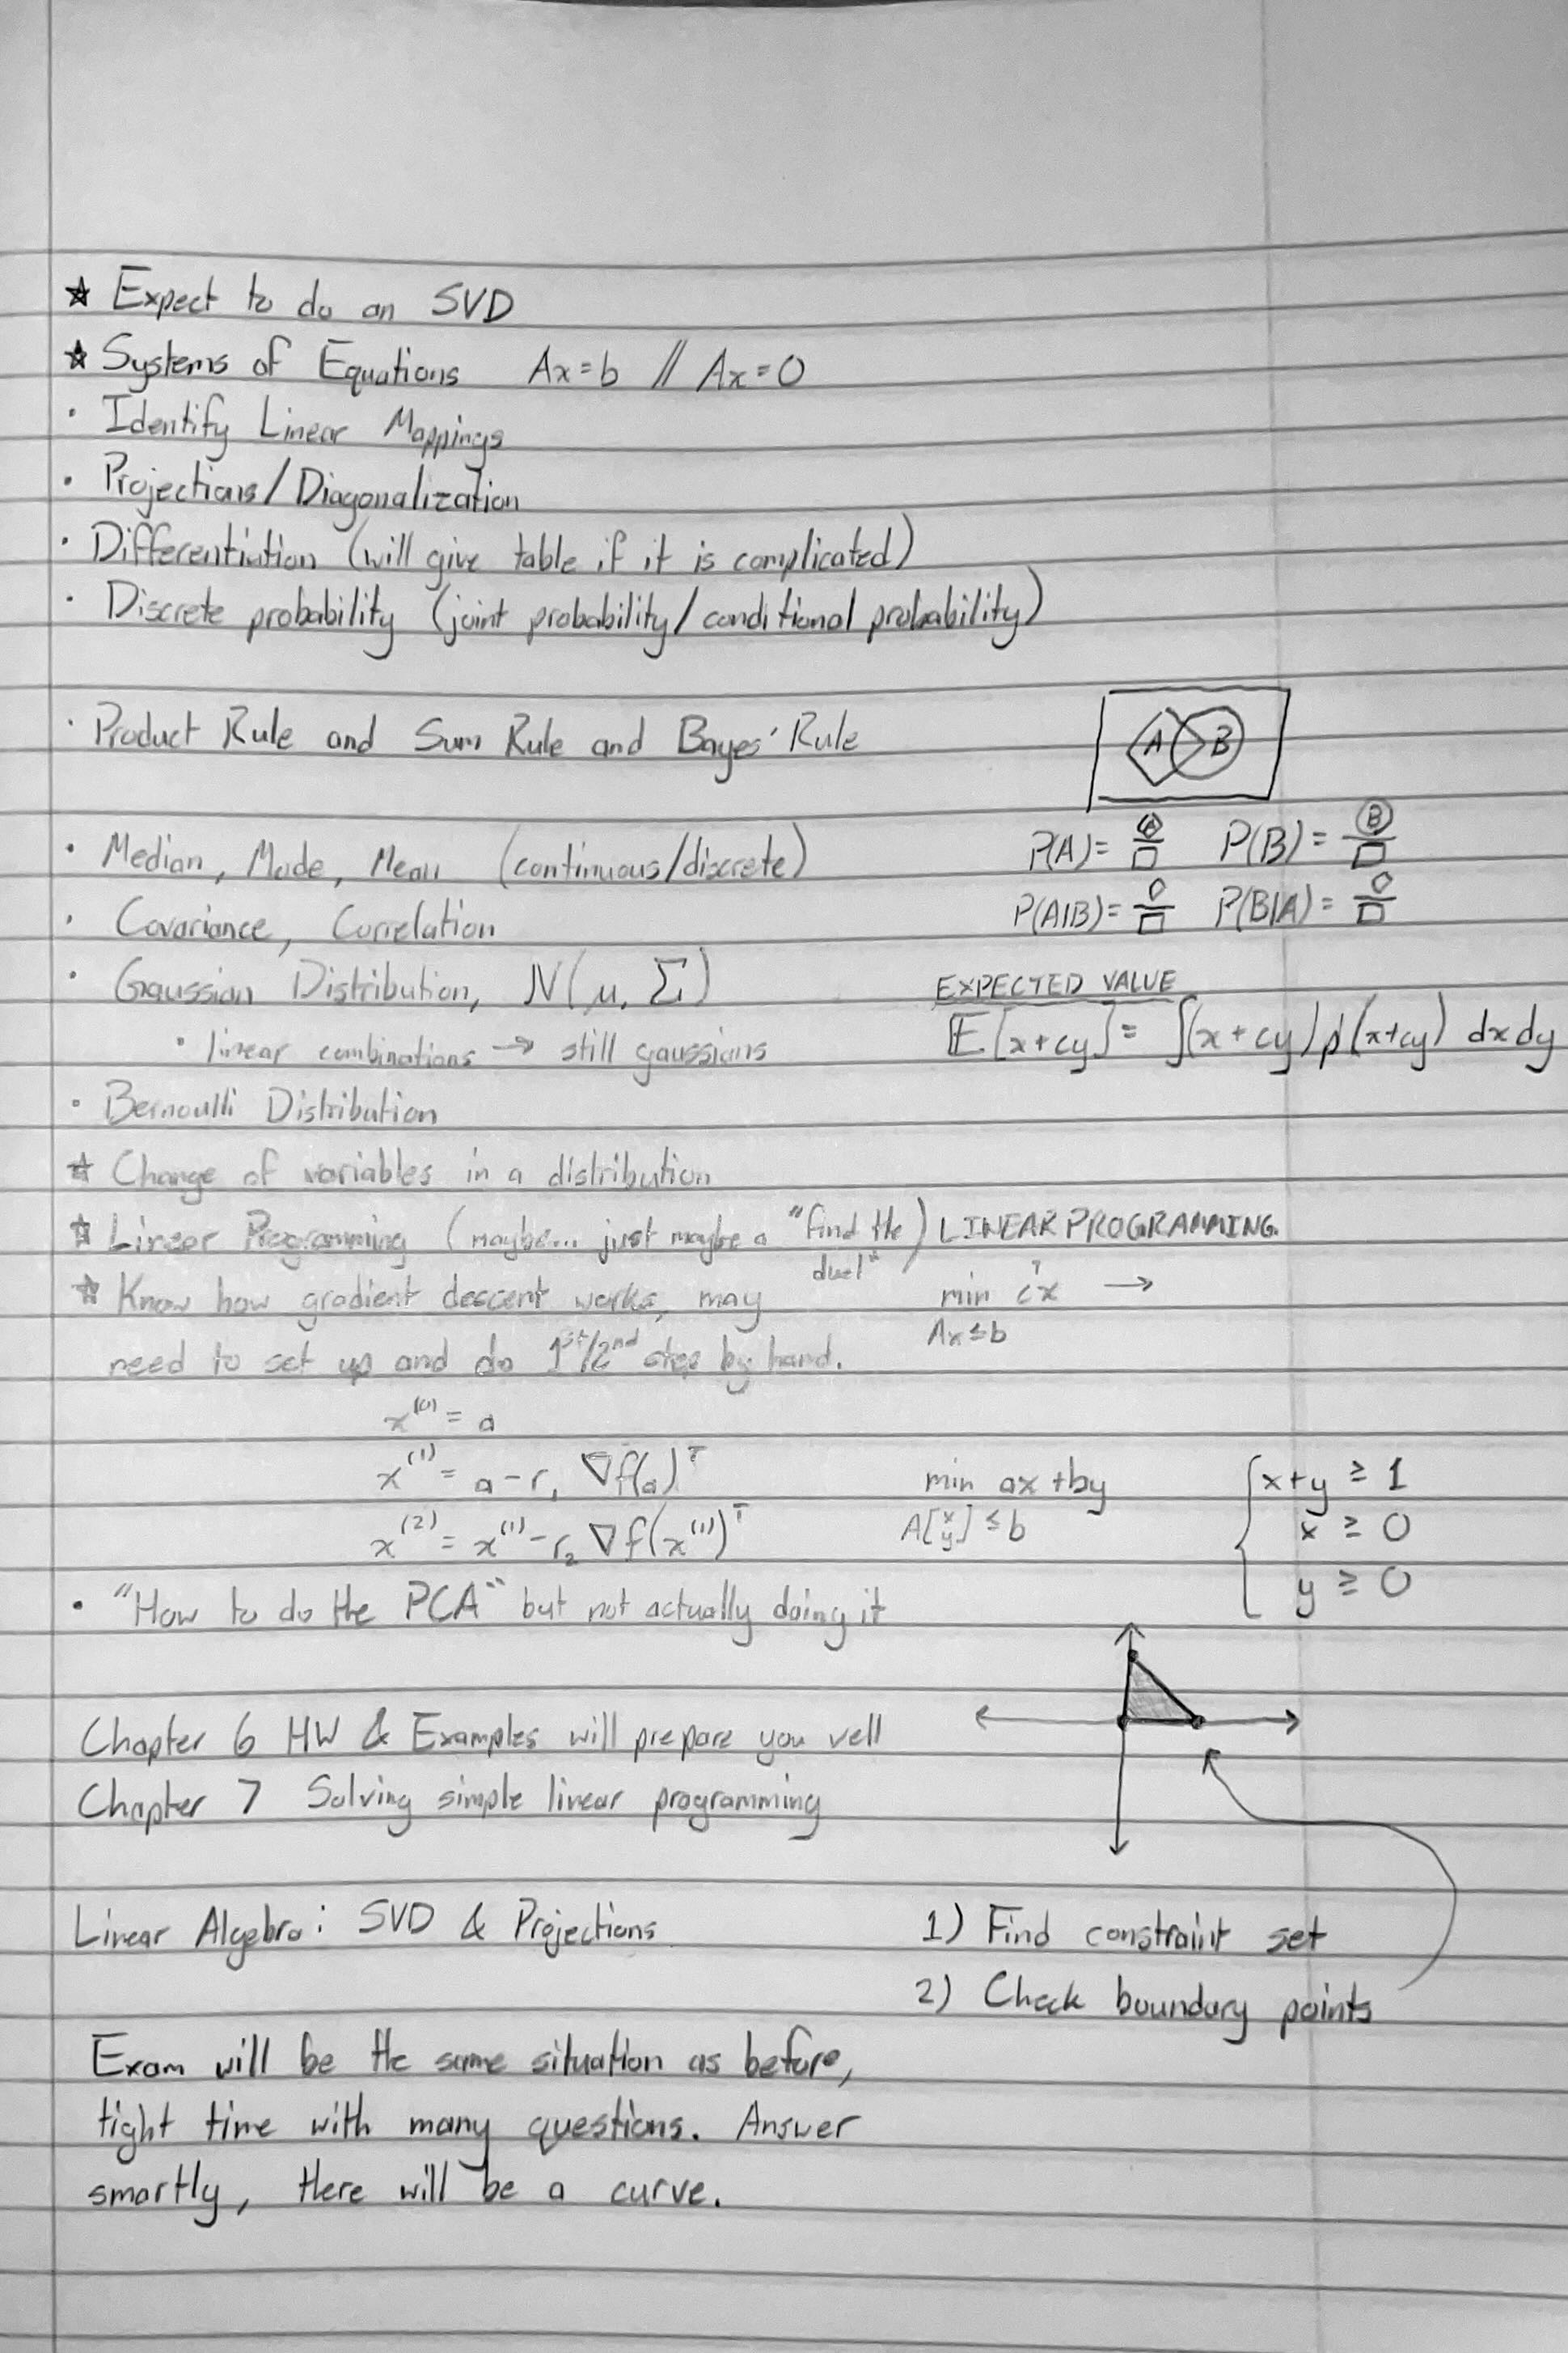
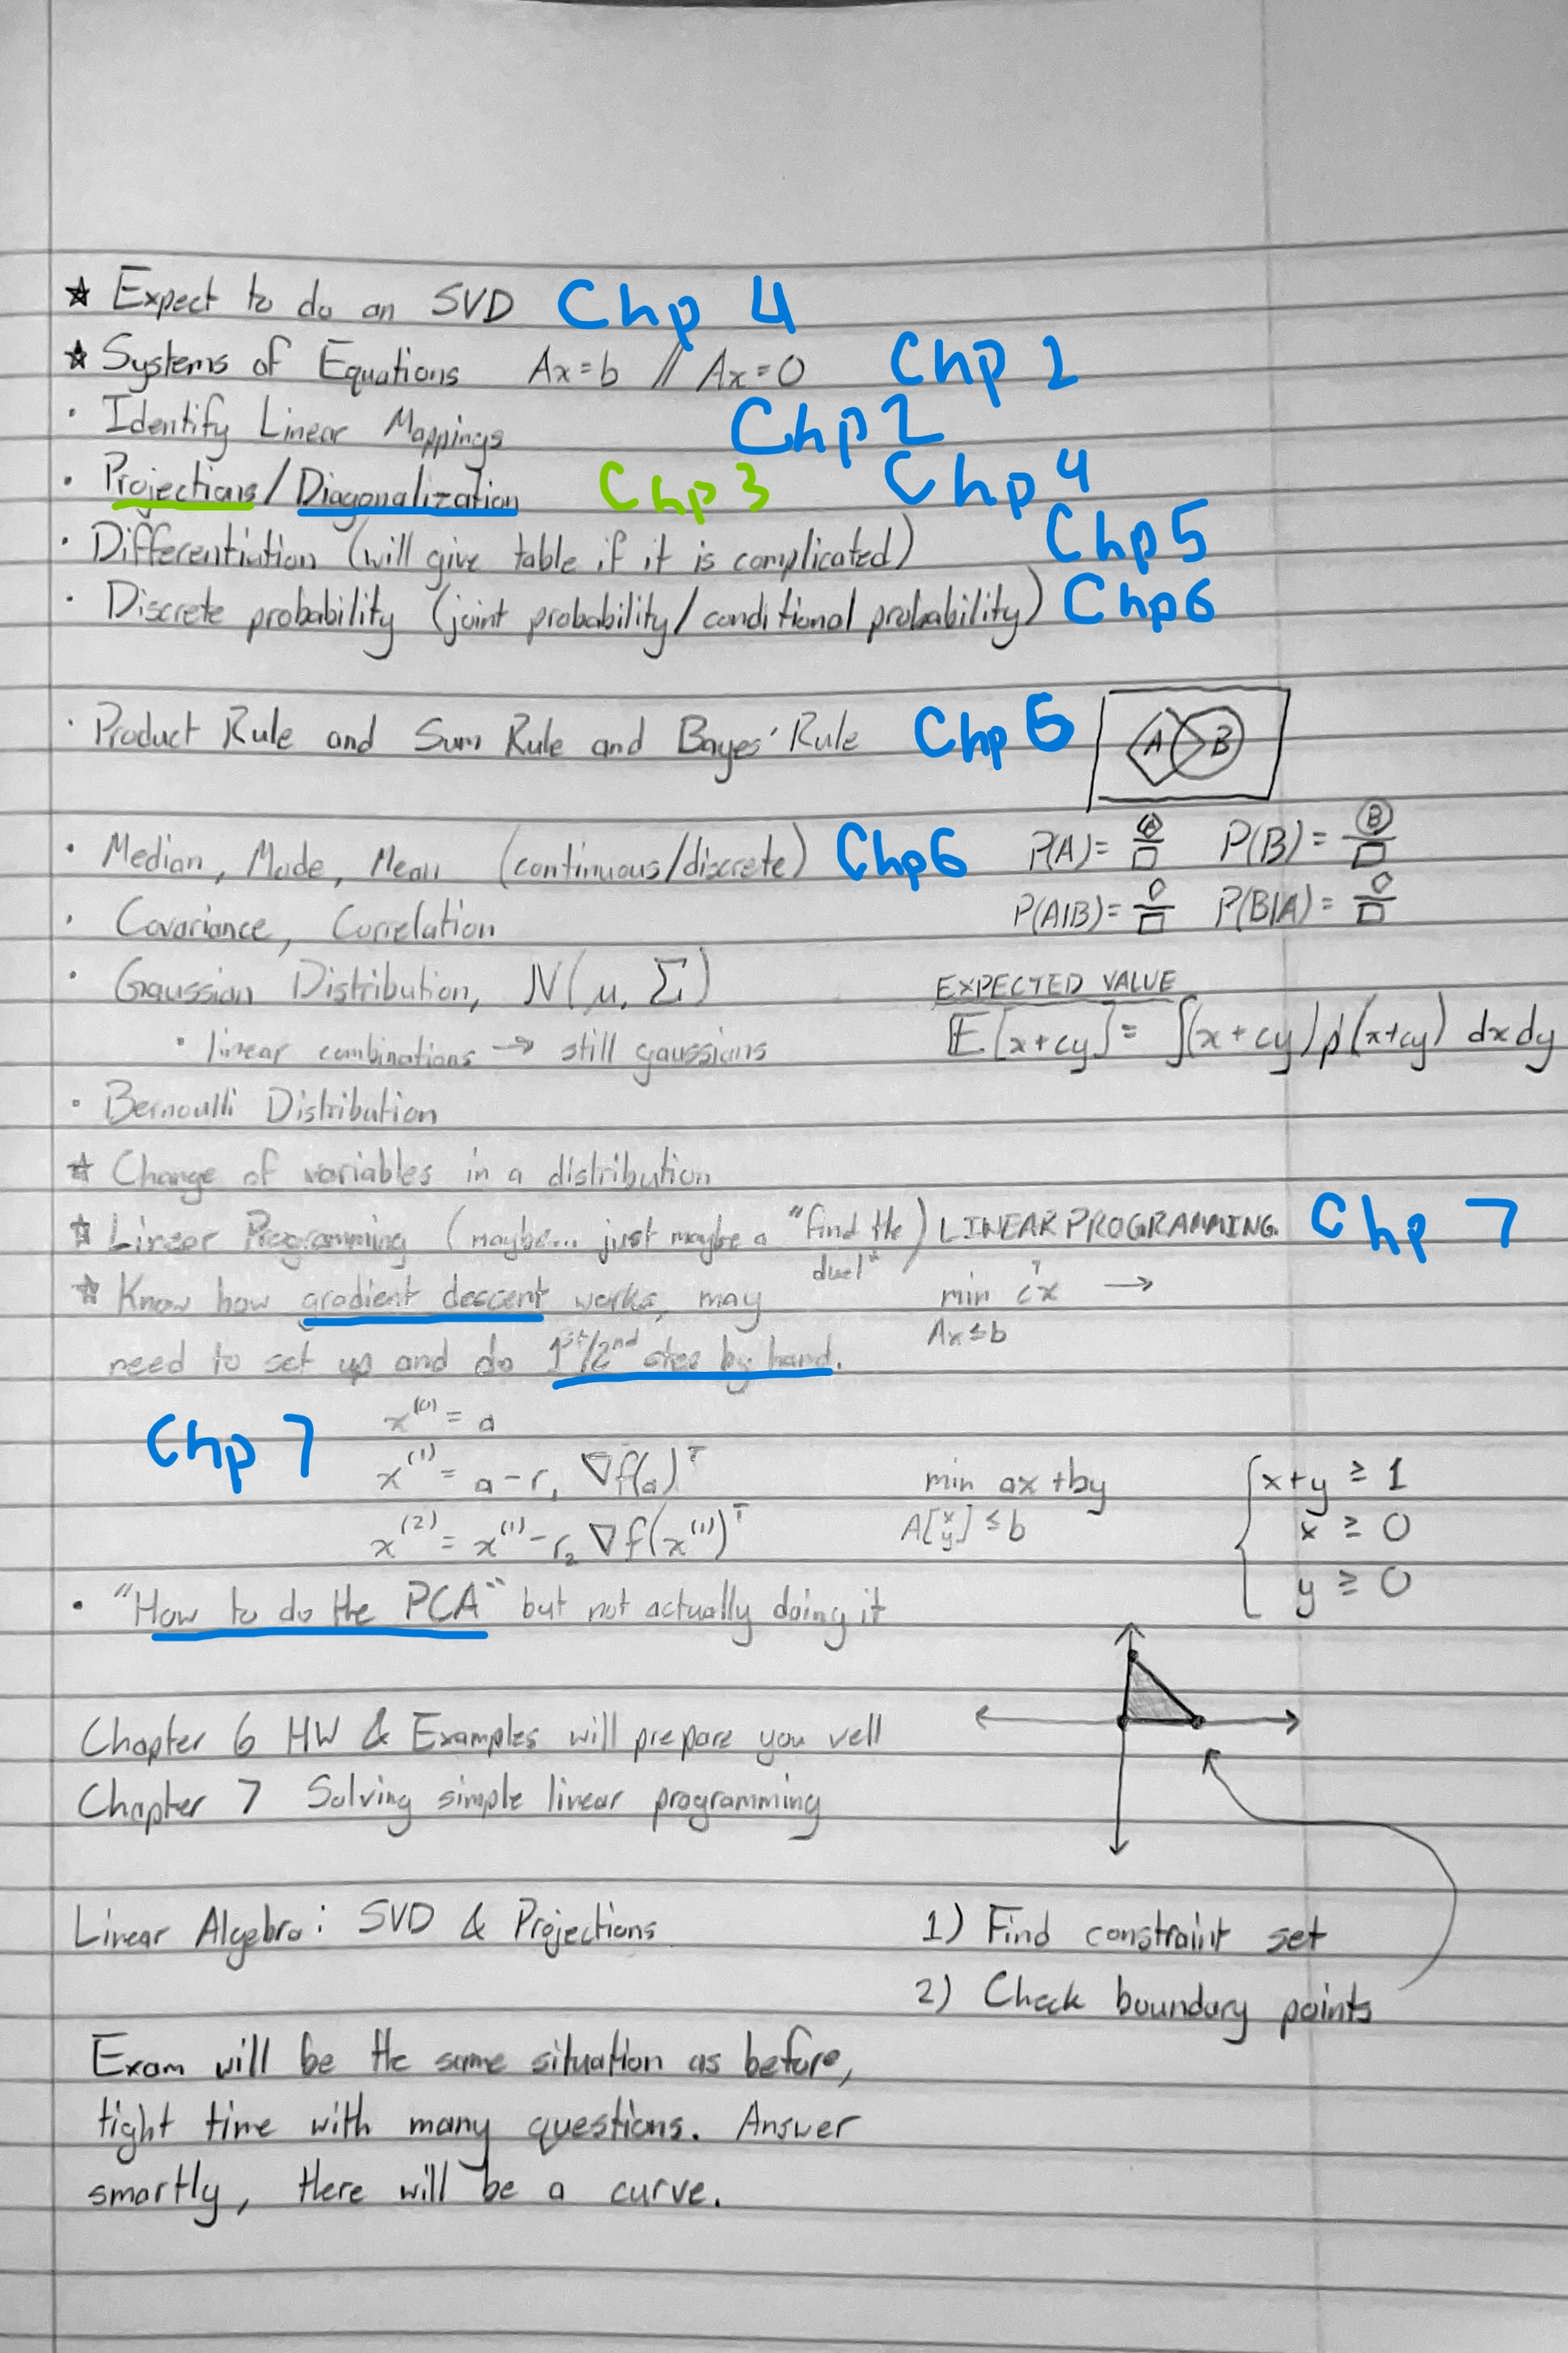
kjhghjk

diff --git a/03_Fall25/FinalsReview/Math/Chp2/Definitions.md b/03_Fall25/FinalsReview/Math/Chp2/Definitions.md
@@ -1,0 +1,99 @@
+### Properties - Transpose & Inverse
+$$
+\begin{align}
+\tag{2.26}
+AA^{-1}=&\;I=A^{-1}A\\
+\tag{2.27}
+(AB)^{-1} =&\; B^{-1}A^{-1}\\
+\tag{2.28}
+(A+B)^{-1}\neq &\; A^{-1} + B^{-1}\\
+\tag{2.29}
+(A^\top)^\top = &\; A\\
+\tag{2.30}
+(AB)^\top = &\; A^\top B^\top\\
+\tag{2.31}
+(A+B)^\top =&\; A^\top + B^\top
+\end{align}
+$$
+
+---
+### Definition 2.7 - Group
+Consider $G:=(\mathcal{G}, \otimes)$, where we have a set $\mathcal{G}$ and an operation $\otimes:\mathcal{G}\times\mathcal{G}\to\mathcal{G}$ defined on $\mathcal{G}$. $G$is a group iff:
+1) **Closure** of $\mathcal{G}$ under $\otimes: \forall x,y \in \mathcal{G}:x\otimes y \in \mathcal{G}$
+2) **Associativity**: $\forall x,y,z \in \mathcal{G}: (x\otimes y) \otimes z = x\otimes (y\otimes z)$
+3) **Neutral** element: $\exists e \in \mathcal{G} \forall x \in \mathcal{G}: x\otimes e=x and e\otimes x=x$
+4) **Inverse** element: $\forall x \in \mathcal{G} \exists y \in \mathcal{G} : x\otimes y = e$ and $y\otimes x = e$, where $e$ is the **neutral element**. We often write $x^{-1}$ to denote the inverse element of $x$.
+5) **Abelian Group (Commutativity):** If additionally, $\forall x,y \in \mathcal{G}: x\otimes y=y\otimes x$, then $G=(\mathcal{G},\otimes)$ holds true, the group is additionally an Abelian Group.
+Groups can be thought of like a set and a rule for combining these elements within the set. In the notation provided above, the set shown is $\mathcal{G}$ and the rule for combining these elements is notated as $\otimes$ and is further defined when needed.
+
+---
+### Definition 2.9 - Vector Space
+A real-valued vector space $V=(V,+,\cdot)$ is a set $\mathcal{V}$ with two operations
+$$
+\begin{align}
+\tag{2.62}
++:\mathcal{V}\times \mathcal{V} \to&\; \mathcal{V}\\
+\tag{2.63}
+\cdot : \mathbb{R} \times \mathcal{V} \to &\; \mathcal{V}
+\end{align}
+$$
+where:
+1) $(\mathcal{V}, +)$ is an abelian group.
+2) Distributivity holds true
+3) Associativity holds true
+4) There exists a neutral element w.r.t to the outer operation
+
+The dimension of a vector space corresponds to the number of its basis vectors.
+
+---
+### Definition 2.10 - Vector Subspace
+Let $V=(\mathcal{V},+,\cdot)$ be a vector space and $\mathcal{U} \subseteq \mathcal{V}, \mathcal{U}\neq \emptyset$. Then $U = (\mathcal{U},+,\cdot)$ is called a vector subspace if $U$ is a vector space with the operations $+$ and $\cdot$ 
+
+To determine whether $(\mathcal{V}, +, \cdot)$ is a subspace of $V$ we still need to show the following:
+1) $\mathcal{U}\neq \emptyset$ in particular: $0\in \mathcal{U}$
+2) Closure of $U$:
+	1) w.r.t to the outer (Multiplication) and inner (addition) operation.
+
+---
+### Definition 2.14 - Basis & Rank
+A basis is a minimal generating set and a maximal linearly independent set of vectors. The basis contains as many linearly independent vectors as possible and you are unable to add anymore without creating dependencies. The basis contains just enough vectors to space the space.
+
+A basis of a subspace can be found by executing the following steps:
+1) Write the spanning vectors as columns of a matrix
+2) Determine the row-echelon form
+3) The spanning vectors associated with the pivot columns are a basis of the vector space.
+
+Just as Basis is the number of linearly independent columns, **Rank** is the number of linearly independent rows; denoted by $rk(A)$
+
+### Properties - Rank
+- $rk(A)=rk(A^\top)$
+
+---
+### Definition 2.15 - Linear Mapping
+A linear mapping is a function between vector spaces that preserves:
+1) Vector Addition: $T(u+v)=T(u)+T(v)$
+2) Vector scalar multiplication: $T(cv)= cT(v)$
+Linear mappings keep the structure of vector spaces intact, never bending, curving, or distorting the vector space allowing for the linearity to be preserved.
+
+#### Special Cases: In|Sur|Bi - jective mappings
+There are three special cases of linear mappings that we will introduce that also introduce special linear mappings:
+1) Injective Mappings refer to a **One-to-One** mapping where every input results in a different output
+2) Surjective Mappings refers to an **Onto** mapping where every vector in the target space is hit by at least one vector from the domain.
+3) Bijective Mappings is a combination of both Injective and Surjective. This mapping creates a perfect correspondence between the two spaces and guarantees an inverse linear map exists.
+
+#### Special Cases: Iso|Endo|Auto - morphism
+There are several types of mappings that can be identified based upon the outcome of the linear mappings identified between the target and input vector spaces
+1) Isomorphism: $\Phi: V\to W$ linear and bijective
+2) Endomorphism: $\Phi: V\to V$ linear
+3) Automorphism: $\Phi:V\to V$ linear and bijective
+4) We define $id_V:V\to V$, $x\to x$ as the identity mapping or identity automorphism in $V$
+
+##### Theorem 2.17
+Finite-dimensional vector spaces are isomorphic iff $dim(V)=dim(W)$
+
+---
+### Definition 2.19 - Transformation Matrix
+Consider vector spaces $V,W$ with corresponding bases $B,C$ 
+
+---
+### Theorem 2.20 - Basis Change

diff --git a/03_Fall25/FinalsReview/Math/Chp6/Practice Problems.md b/03_Fall25/FinalsReview/Math/Chp6/Practice Problems.md
@@ -1,0 +1,94 @@
+### Problem 6.1
+Consider the following bivariate distribution $p(x,y)$ of two discrete random variables $X$ and $Y$
+
+| X/Y   | $x_1$ | $x_2$ | $x_3$ | $x_4$ | $x_5$ |
+| ----- | ----- | ----- | ----- | ----- | ----- |
+| $y_1$ | 0.01  | 0.02  | 0.03  | 0.1   | 0.1   |
+| $y_2$ | 0.05  | 0.1   | 0.05  | 0.07  | 0.2   |
+| $y_3$ | 0.1   | 0.05  | 0.03  | 0.05  | 0.04  |
+Compute the following:
+1) The marginal distributions $p(x)$ and $p(y)$
+2) The conditional distributions $p(x|Y=y_1)$ and $p(y|X=x_3)$
+
+---
+### Problem 6.2
+Consider a mixture of two Gaussian distributions
+$$
+0.4 \mathcal{N} \left(
+\begin{bmatrix}
+10\\2
+\end{bmatrix}
+\;,\;
+\begin{bmatrix}
+1&0\\
+0&1
+\end{bmatrix}
+\right)
++
+0.6 \mathcal{N} \left(
+\begin{bmatrix}
+0\\0
+\end{bmatrix}
+\;,\;
+\begin{bmatrix}
+8.4&2.0\\
+2.0&1.7
+\end{bmatrix}
+\right)
+$$
+Compute the following:
+1) Compute the marginal distributions for each dimension
+2) Compute the mean, mode, and median for each marginal distribution
+3) Compute the mean and mode for the two-dimensional distribution
+
+---
+### Problem 6.3
+You have written a computer program that sometimes compiles and sometimes not. You decide to model the apparent stochasticity $x$ of the compiler using a Bernoulli distribution with parameter $\mu$:
+$$
+p(x|\mu)=\mu^x(1-\mu)^{1-x}, \;\; x\in \{0,1\}
+$$
+Choose a conjugate prior for the Bernoulli likelihood and compute the posterior distribution $p(\mu|x_1,...,x_N)$.
+
+---
+### Problem 6.4
+There are two bags. The first bag contains four mangos and two apples; the second bag contains four mangos and four apples. We also have a biased coin, which shows "heads" with probability 0.6  and "tails" with probability 0.4.
+If the coin shows "heads" we pick a fruit at random from bag 1; otherwise we pick a fruit at random from bag 2. Your friend flips the coin, picks a fruit at random, and presents a mango.
+
+What is the probability that the mango was picked from bag 2?
+Hint: Use **Bayes' theorem**
+
+---
+### Problem 6.5
+Consider the time-series model
+$$
+\begin{align}
+x_{t+1} &\;= Ax_t+w, \;\; w\sim \mathcal{N}(0,Q)\\
+y_t &\; = Cx_t+v, \;\; v \sim \mathcal{N} (0,R),
+\end{align}
+$$
+where $w,v$ are i.i.d. Gaussian noise variables. Further, assume that $p(x_0)=\mathcal{N}(\mu_0,\sum_0)$
+1) What is the form of $p(x_0, x_1, ..., x_T)$? Justify your answer (You do not have to explicitly compute the join distribution)'
+2) Assume that $p(x_t|y_1,...,y_t)=\mathcal{N}(\mu_t,\sum_t)$
+	1) Compute $p(x_{t+1}|y_1,...,y_t)$
+	2) Compute $p(x_{t+1}, y_{t+1}| y_1,...,y_t)$
+	3) At time $t+1$, we observe the value $y_{t+1}=\hat{y}$ Compute the conditional distribution $p(x_{t+1} | y_1,...,y_{t+1})$
+
+---
+### Problem 6.6
+Prove the relationship in $(6.44)$, which relates the standard definition of the variance to the raw-score expression for the variance.
+
+---
+### Problem 6.7
+Prove the relationship in $(6.45)$, which relates the pairwise difference between examples in a dataset with the raw-score expression for the variance.
+
+---
+### Problem 6.8
+Express the Bernoulli distribution in the natural parameter form of the exponential family, see $(6.107)$.
+
+---
+### Problem 6.9
+Express the Binomial distribution as an exponential family distribution. Also express the Beta distribution is an exponential family distribution. Show that the product of the Beta and the Binomial distribution is also a member of the exponential family.
+
+---
+### Problem 6.13
+Given a continuous random variable $X$, with cdf $F_X(x)$, show that the random variable $Y:=F_X(X)$ is uniformly distributed (Theorem 6.15). **Probability Integral Transformation**

diff --git a/03_Fall25/FinalsReview/Math/Chp5/Practice Problems.md b/03_Fall25/FinalsReview/Math/Chp5/Practice Problems.md
@@ -1,4 +1,3 @@
-### Problem 5.1
 Compute the derivative $f^\prime(x)$ for:
 $$f(x)=log(x^4)sin(x^3)$$
 
@@ -54,3 +53,35 @@ where sin$(\cdot)$ is applied to every element of $z$.
 ### Problem 5.8
 Compute the derivatives $\frac{df}{dx}$ of the following functions. Describe your steps in detail.
 1) Use the chain rule. Provide the dimensions of every single partial derivative
+$$
+\begin{align}
+f(z) = &\; exp(-\frac{1}{2}z)\\
+z = &\; g(y) = y^\top S^{-1} y\\
+y = &\; h(x) = x - \mu
+\end{align}
+$$
+where $x,\mu\in \mathbb{R}^D$, $S\in \mathbb{R}^{D\times D}$
+2) $f(x)=tr(xx^\top + \sigma^2 I), x\in \mathbb{R}^D$
+3) Use the chain rule. Provide the dimensions of every single partial derivative. You do not need to compute the product of the partial derivatives explicitly
+$$
+\begin{align}
+f=&\;tanh(z)\in\mathbb{R}^M \\
+z=&\;Ax+b \\ 
+x\in \mathbb{R}^N, A\in &\;\mathbb{R}^{M\times N}, b\in \mathbb{R}^M
+\end{align}
+$$
+tanh is applied to every component of $z$.
+
+---
+### Problem 5.9
+We define
+$$
+\begin{align}
+g(x,z,v) &\;:=log\; p(x,z) - log \; p(z,v)\\
+z&\;:= t(\epsilon, v)
+\end{align}
+$$
+for differentiable function $p,q,t$ and $x\in \mathbb{R}^D, z\in\mathbb{R}^E, v\in\mathbb{R}^F, \epsilon \in \mathbb{R}^G$. By using the chain rule, compute the gradient
+$$
+\frac{d}{dv} g(x,z,v)
+$$

diff --git a/03_Fall25/FinalsReview/Math/Chp3/Definitions.md b/03_Fall25/FinalsReview/Math/Chp3/Definitions.md
@@ -1,0 +1,18 @@
+
+### Definition 3.1 - Norm
+A *norm* on a vector space $V$ is a function
+$$
+\begin{align}
+\tag{3.1}
+||\cdot||:V\to&\;\mathbb{R},\\
+x\mapsto &\; ||x||
+\tag{3.2}
+\end{align}
+$$ which assigns each vector $x$ its length $||x||\in\mathbb{R}$, such that for all $\lambda\in\mathbb{R}$ and $x,y\in V$ the following hold:
+1) Absolutely homogenous: $||\lambda x|| = |\lambda |\;||x||$
+2) Triangle inequality: $||x+y|| \leq ||x|| + ||y||$
+3) Positive definite: $||x|| \geq 0$ and $||x|| = 0 \Longleftrightarrow x=0$
+
+---
+
+### Definition 3.2 - Symmetric positive definite bilinear mapping
